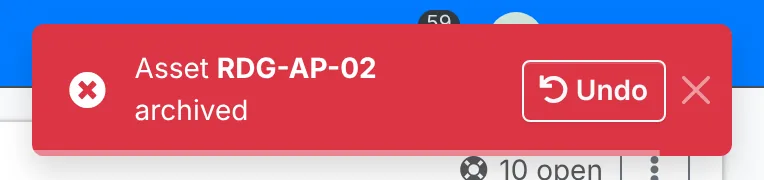
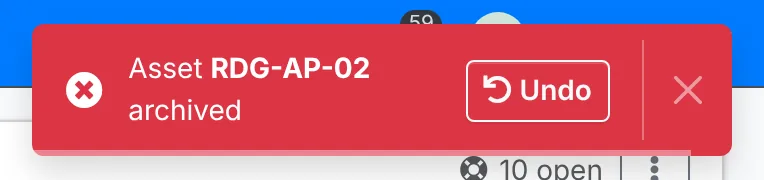
Docs: Undo section says only the x closes the Undo message, with the screenshot retaken

diff --git a/content/getting-started/lists.md b/content/getting-started/lists.md
@@ -104,7 +104,7 @@ Archiving doesn't ask "Are you sure?" first. Instead, the message that says it's
 - **Moves** - files, documents and folders moved to another folder, by dragging or with **Move**, and kit dragged to another place on a [rack](/documentation/racks#move).
 - **Bulk changes** that set a field: a ticket's priority, category or project; an asset's location, physical location, contact or status; a contact's location, department, phone number or roles; a client's industry or referral; a project's manager or due date; an invoice's or product's category; and an IP address's type.
 
-The message stays up for ten seconds, and for as long as the pointer is on it. Undo works once, and only for you. Anything changed again in the meantime - by you or anyone else - is left as it is, and the message after Undo says how many were.
+The message stays up for ten seconds, and for as long as the pointer is on it. Only the x at its right closes it - a click on the message itself does nothing, so one that just misses **Undo** doesn't lose it. Undo works once, and only for you. Anything changed again in the meantime - by you or anyone else - is left as it is, and the message after Undo says how many were.
 
 ## Record pages
 
